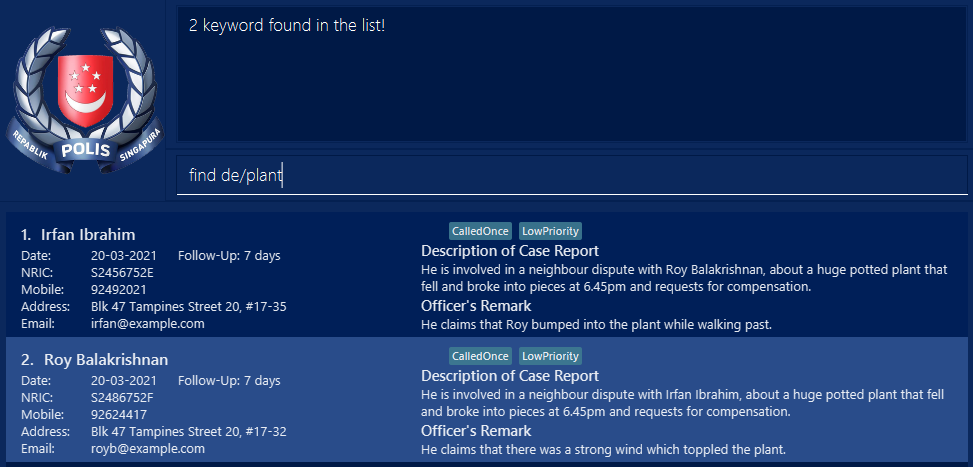
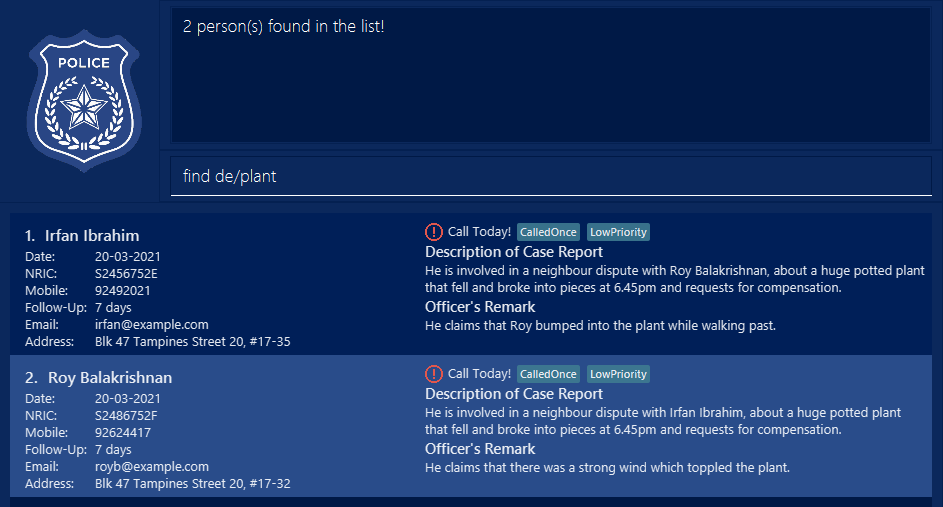
Updated UG, DG & PPP
Also updated Ui images, corrected typo errors in UG & DG, shortened AddTag and RemoveTag message to 1 line.

diff --git a/src/main/java/seedu/address/model/util/SampleDataUtil.java b/src/main/java/seedu/address/model/util/SampleDataUtil.java
@@ -28,7 +28,7 @@ public class SampleDataUtil {
     public static Person[] getSamplePersons() {
         return new Person[] {
             new Person(new Name("Alex Yeoh"),
-                new Date("17-03-2021"),
+                new Date("02-04-2021"),
                 new FollowUp("7"),
                 new Nric("S1234567A"),
                 new Phone("87438807"),
@@ -61,7 +61,7 @@ public class SampleDataUtil {
                 EMPTY_REMARK,
                 getTagSet("LowPriority", "NeverCalled")),
             new Person(new Name("Irfan Ibrahim"),
-                new Date("20-03-2021"),
+                new Date("19-03-2021"),
                 new FollowUp("7"),
                 new Nric("S2456752E"),
                 new Phone("92492021"),
@@ -72,7 +72,7 @@ public class SampleDataUtil {
                 new Remark("He claims that Roy bumped into the plant while walking past."),
                 getTagSet("LowPriority", "CalledOnce")),
             new Person(new Name("Roy Balakrishnan"),
-                new Date("20-03-2021"),
+                new Date("19-03-2021"),
                 new FollowUp("7"),
                 new Nric("S2486752F"),
                 new Phone("92624417"),

diff --git a/src/main/java/seedu/address/logic/commands/RemoveTagCommand.java b/src/main/java/seedu/address/logic/commands/RemoveTagCommand.java
@@ -22,8 +22,7 @@ public class RemoveTagCommand extends Command {
     public static final String COMMAND_WORD = "removeTag";
     public static final String MESSAGE_USAGE = COMMAND_WORD + ": Remove the tag of the person identified "
             + "by the index number used in the last person listing.\n"
-            + "Tag name should not contain spaces in between.\n"
-            + "Tag name cannot be empty.\n"
+            + "Tag name cannot be empty and should not contain space in between.\n"
             + "Parameters: INDEX (must be a positive integer) "
             + PREFIX_REMOVETAG + "[TAG]\n"
             + "Example: " + COMMAND_WORD + " 1 "
@@ -57,8 +56,7 @@ public class RemoveTagCommand extends Command {
 
         if (personToEdit.getTags().isEmpty()) {
             throw new CommandException("The tag is empty, please add tag(s) if needed.");
-        }
-        else if (!personToEdit.getTags().contains(tag)) {
+        } else if (!personToEdit.getTags().contains(tag)) {
             throw new CommandException("No tag name is matched, please enter a correct tag name.");
         } else {
             Set<Tag> oldTags = personToEdit.getTags();

diff --git a/src/main/java/seedu/address/ui/MainWindow.java b/src/main/java/seedu/address/ui/MainWindow.java
@@ -51,7 +51,7 @@ public class MainWindow extends UiPart<Stage> {
     private StackPane resultDisplayPlaceholder;
 
     @FXML
-    private StackPane statusbarPlaceholder;
+    private StackPane statusBarPlaceholder;
 
     @FXML
     private ImageView displayLogo;
@@ -122,7 +122,7 @@ public class MainWindow extends UiPart<Stage> {
         resultDisplayPlaceholder.getChildren().add(resultDisplay.getRoot());
 
         StatusBarFooter statusBarFooter = new StatusBarFooter(logic.getAddressBookFilePath());
-        statusbarPlaceholder.getChildren().add(statusBarFooter.getRoot());
+        statusBarPlaceholder.getChildren().add(statusBarFooter.getRoot());
 
         CommandBox commandBox = new CommandBox(this::executeCommand);
         commandBoxPlaceholder.getChildren().add(commandBox.getRoot());

diff --git a/src/main/java/seedu/address/logic/commands/AddTagCommand.java b/src/main/java/seedu/address/logic/commands/AddTagCommand.java
@@ -22,8 +22,7 @@ public class AddTagCommand extends Command {
     public static final String COMMAND_WORD = "addTag";
     public static final String MESSAGE_USAGE = COMMAND_WORD + ": Add the tag of the person identified, "
             + "by the index number used in the last person listing.\n"
-            + "Tag name should not contain spaces in between.\n"
-            + "Tag name cannot be empty.\n"
+            + "Tag name cannot be empty and should not contain space in between.\n"
             + "Parameters: INDEX (must be a positive integer) "
             + PREFIX_ADDTAG + "[TAG]\n"
             + "Example: " + COMMAND_WORD + " 1 "

diff --git a/docs/team/impala36.md b/docs/team/impala36.md
@@ -1,0 +1,68 @@
+---
+layout: page
+title: Zhenquan's Project Portfolio Page
+---
+
+## Project: Police Address Book
+
+Police Address Book (PAB) is a desktop app meant for Police Investigation Officers, optimized for use via a Command Line Interface (CLI) with a Graphical User Interface (GUI).
+
+It is designed to help them manage their investigation cases better by reminding them on which people to call, automatically rescheduling follow-up calls and assisting in sending case detail emails to colleagues or call notification emails to people in the contact list.
+
+Given below are my contributions to the project.
+
+* **New Feature**: Added the Officer's Remark field [\#6]()
+  * What it does: Allows additional remarks from the officer about his opinion about the case.
+  * Justification: Supposedly after a follow-up call with the person, the officer develops his own opinion on how to handle the case afterwards.
+  * Highlights: When no remarks are found for a case, the Officer's Remark title will not show as well.
+  
+* **New Feature**: Added the Description field [\#6]()
+  * What it does: Allows in-depth description of a case.
+  * Justification: By showing a clear description of the case, the officer has no doubts about what, where and when it happened, and who were involved.
+  
+* **New Feature**: Call Today message and notification icon [\#87]()
+  * What it does: Shows a red exclamation icon with a "Call Today!" message beside it.
+  * Justification: When the report date + follow-up days = today's date, it is time for the officer to make the scheduled follow-up call with the person in the case.
+
+* **Code contributed**: [RepoSense link]()
+
+* **Enhancements to existing features**:
+  * Improved Remark to be included in the Add and Edit commands. [\#66]()
+  * Made tags more useful by indicating case priority and number of times called. [\#66]()
+  * Improved GUI display for better readability with Description of Case Report and Officer's Remark. [\#70]()
+  * Improved the FollowUp command to be included in the Add and Edit commands. [\#99]()
+  * Added logging for Call Today and remarkTitle to be displayed when a remark exists. [\#99]()
+  * Fixed Find command not being able to search descriptions, dates, remarks, followUp and tags. [\#100]()
+
+* **Documentation**:
+  * User Guide:
+    * Renamed AddressBook to Police Address Book, updated Add, Edit, Find, Remark format and command examples. [\#48]()
+    * Updated the summary description for Police Address Book, updated Add command examples. [\#66]()
+    * Added the FollowUp field in the command examples. [\#99]()
+    * Added many Find command examples. [\#100]()
+    * Added examples for AddTag and RemoveTag. [3d8fb80](https://github.com/AY2021S2-TIC4002-F18-1/tp2/commit/3d8fb80ebd42a340d1f73551891c670ae85b2ece#diff-b50feaf9240709b6b02fb9584696b012c2a69feeba89e409952cc2f401f373fb)
+    * Added more Remark examples. [2379c5e](https://github.com/AY2021S2-TIC4002-F18-1/tp2/commit/2379c5e4e8bb6f71a31481c96b3da5e34e76d71b#diff-b50feaf9240709b6b02fb9584696b012c2a69feeba89e409952cc2f401f373fb)
+    * Updated the phone number requirement. [\#138]()
+    
+  * Developer Guide:
+    * Updated the target user profile, value proposition, user stories, use cases and additional information. [\#48]()
+    * Replaced all addressbook-level3 to team's repo. [\#66]()
+    * Added CallUpActivityDiagram. [\#84]()
+    * Updated CallUpActivityDiagram to CallTodayActivityDiagram. [\#99]()
+    * Updated phone number to be limited to 3-15 numbers. [\#138]()
+
+* **Team-based tasks**:
+  * Assisted Yi Heng through the whole process of adding the Date field into the project. [\#50]()
+  * Fixed JsonSerializableAddressBookTest.java and logic of isSamePerson for Lin Qing. [\#68]()
+  * Made minor fixes and corrected mistakes in AddTag and RemoveTag for Yi Heng. [\#102]()
+  * Several commands were not catching exceptions during testing. [\#106]()
+  * Fixed outstanding PE-D issues. [\#136]() and [\#138]()
+  
+* **Community**:
+  * PRs reviewed: [\#1](), [\#12](), [\#29](), [\#30](), [\#31](), [\#33](), [\#34](), [\#37](), [\#38](), [\#42](), [\#43](), [\#45](), [\#46](), [\#47](), [\#50](), [\#56](), [\#64](), [\#65](), [\#75](), [\#83](), [\#85](), [\#91](), [\#93](), [\#95](), [\#97](), [\#98](), [\#101](), [\#134](), [\#135](), [\#137](), [\#140](), [\#141]()
+  * Reviewed the code in team members' PRs and requested for changes when necessary. Example: [\#33]()
+  * Requested for help on the forum. [#11](https://github.com/nus-tic4002-AY2021S2/forum/issues/11)
+
+* **Tools**:
+  * Integrated SceneBuilder to the project for editing the GUI.
+  

diff --git a/docs/UserGuide.md b/docs/UserGuide.md
@@ -5,7 +5,7 @@ title: User Guide
 
 **Police Address Book (PAB)** is a desktop app meant for Police Investigation Officers, optimized for use via a Command Line Interface (CLI) with a Graphical User Interface (GUI).
 
-It is designed to help them manage their investigation cases better by reminding them on which people to call, automatically rescheduling follow up calls and assisting in sending case detail emails to colleagues or call notification emails to people in the contact list.
+It is designed to help them manage their investigation cases better by reminding them on which people to call, automatically rescheduling follow-up calls and assisting in sending case detail emails to colleagues or call notification emails to people in the contact list.
 
 * Table of Contents
   {:toc}
@@ -16,11 +16,11 @@ It is designed to help them manage their investigation cases better by reminding
 
 1. Ensure you have Java `11` or above installed in your Computer.
 
-1. Download the latest `PoliceAddressBook.jar`.
+1. Download the latest `[TIC4002-F18-1][PoliceAddressBook].jar`.
 
 1. Copy the file to the folder you want to use as the _home folder_ for your Police Address Book.
 
-1. Double-click the file to start the app. The GUI similar to the below should appear in a few seconds. Note how the app contains some sample data.<br>
+1. Double-click the file to start the app. The GUI similar to the below should appear in a few seconds. Notice that the app contains some sample data.<br>
    ![Ui](images/Ui.png)
 
 1. Type the command in the command box and press Enter to execute it. e.g. typing **`help`** and pressing Enter will open the help window.<br>
@@ -48,7 +48,7 @@ It is designed to help them manage their investigation cases better by reminding
   e.g. in `add n/NAME`, `NAME` is a parameter which can be used as `add n/John Doe`.
 
 * Items in square brackets are optional.<br>
-  e.g `n/NAME [t/TAG]` can be used as `n/John Doe t/friend` or as `n/John Doe`.
+  e.g. `n/NAME [t/TAG]` can be used as `n/John Doe t/friend` or as `n/John Doe`.
 
 * Items with `…` after them can be used multiple times including zero times.<br>
   e.g. `[t/TAG]…` can be used as ` ` (i.e. 0 times), `t/friend`, `t/friend t/family` etc.
@@ -125,7 +125,7 @@ Format `followUp INDEX f/FOLLOWUP`
 
 * A red exclamation icon will appear with a "Call Today!" message when the last day of the follow-up date is the same as today.
 * You can stop the follow-up by setting it to 0.
-* The follow up days must be between 0 to 365;
+* The follow-up days must be between 0 and 365;
 
 Examples:
 
@@ -147,7 +147,7 @@ Format: `edit INDEX [n/NAME] [d/DATE] [i/NRIC] [p/PHONE] [e/EMAIL] [a/ADDRESS] [
 * Edits the person at the specified `INDEX`. The index refers to the index number shown in the displayed person list. The index **must be a positive integer** 1, 2, 3, …
 * At least one of the optional fields must be provided.
 * Existing values will be updated to the input values.
-* When editing tags, the existing tags of the person will be removed i.e adding of tags is not cumulative.
+* When editing tags, the existing tags of the person will be removed i.e. adding of tags is not cumulative.
 * You can remove all the person’s tags by typing `t/` without specifying any tags after it.
 * You can remove the remark by typing `r/` without specifying any remark after it.
 
@@ -197,11 +197,11 @@ Format:
 `find [n/MORE_KEYWORDS] [d/DATE] [i/NRIC] [p/PHONE] [e/EMAIL] [a/ADDRESS] [de/DESCRIPTION] [r/REMARK] [t/TAG]…`
 
 
-* The search is case-insensitive. e.g `n/hans` will match `Hans`
+* The search is case-insensitive. e.g. `n/hans` will match `Hans`
 * The order of the keywords does not matter. e.g. `n\Hans` will match `Bo Hans`
 * The search applies on all the fields.
 * The default find command is finding the name field: e.g. `find john`
-* Only find one filed at a time. Mutilple find input does not support. `find n\john`
+* Only find one filed at a time. Multiple find input is not supported. `find n\john`
 
 Examples:
 * `find n/alex bernice` returns `Alex Yeoh`, `Bernice Yu`<br>
@@ -247,7 +247,7 @@ Format:
 * The email format will be validated.
 * The index must be numeric and within the list size.
 * Any email address with empty space after e\ will treat as invalid email.
-* Any empty space between email format will treated as MESSAGE.
+* Any empty space between email format will be regarded as a MESSAGE.
 
 
 Examples:

diff --git a/docs/DeveloperGuide.md b/docs/DeveloperGuide.md
@@ -35,15 +35,15 @@ The ***Architecture Diagram*** given above explains the high-level design of the
 
 The rest of the App consists of four components.
 
-* [**`UI`**](#ui-component): The UI of the App.
-* [**`Logic`**](#logic-component): The command executor.
-* [**`Model`**](#model-component): Holds the data of the App in memory.
-* [**`Storage`**](#storage-component): Reads data from, and writes data to, the hard disk.
+* [**`UI`**](#ui-component) The UI of the App.
+* [**`Logic`**](#logic-component) The command executor.
+* [**`Model`**](#model-component) Holds the data of the App in memory.
+* [**`Storage`**](#storage-component) Reads data from, and writes data to, the hard disk.
 
 Each of the four components,
 
 * defines its *API* in an `interface` with the same name as the Component.
-* exposes its functionality using a concrete `{Component Name}Manager` class (which implements the corresponding API `interface` mentioned in the previous point.
+* exposes its functionality using a concrete `{Component Name}Manager` class which implements the corresponding API `interface` mentioned in the previous point.
 
 For example, the `Logic` component (see the class diagram given below) defines its API in the `Logic.java` interface and exposes its functionality using the `LogicManager.java` class which implements the `Logic` interface.
 
@@ -178,7 +178,7 @@ Next, the following object interactions will occur to save the new person inform
 It will return a `CommandResult` to the `LogicManager` that will return to user.
 
 
-### Follow up Calls feature
+### Follow-up Calls feature
 
 #### Implementation
 
@@ -196,7 +196,7 @@ The following activity diagram summarizes what happens when a user executes a ne
 
 This feature provides an alternative way for the uer to add/remove a specified tag.
 The Edit tag feature `edit t/[Tag]` will overwrite the entire set of tags. 
-In other words, if there are few tags, and user only wants to udpate a specified tag, the user will need to re-enter all the tags in the `edit t/[Tag]` command, which is tedious and time consuming.
+In other words, if there are few tags, and user only wants to update a specified tag, the user will need to re-enter all the tags in the `edit t/[Tag]` command, which is tedious and time-consuming.
 With the `Add/Remove Tag feature`, the user will be able to remove a specified tag and add in a new tag, or just simply add in a new tag directly.
 
 #### Implementation
@@ -263,7 +263,7 @@ _{more aspects and alternatives to be added}_
 * prefers typing to mouse interactions
 * is reasonably comfortable using CLI apps
 
-**Value proposition**: Helps to remind which people to call, helps to auto reschedule follow up calls, able to update a person's information and add own notes after a call
+**Value proposition**: Helps to remind which people to call, helps to auto reschedule follow-up calls, able to update a person's information and add own notes after a call.
 
 
 ### User stories
@@ -283,7 +283,7 @@ Priorities: High (must have) - `* * *`, Medium (nice to have) - `* *`, Low (unli
 | `* * *`  | police officer | find a person by field         | easily locate details of persons with any bit of information I can remember |
 | `* * *`  | police officer | have a date for each case         | know when the case occurred |
 | `* * *`  | police officer | have a description for each case      | see the details of the person and the case for follow up in future |
-| `* * *`  | police officer | set time intervals           | be reminded to give a follow up call |
+| `* * *`  | police officer | set follow-up           | be reminded to give a follow-up call |
 | `* *`  | police officer | have no repeated data           | avoid duplicate entries (check by phone number or NRIC) |
 | `* *`  | police officer | have an email field           | still contact the person in another way in case no one answers the phone |
 | `*`    | police officer | have a better GUI display of information           | easily see the details of each person and their case |
@@ -401,7 +401,6 @@ Priorities: High (must have) - `* * *`, Medium (nice to have) - `* *`, Low (unli
     * 3a1. Police Address Book shows an error message.
 
       Use case resumes at step 2.
-*{More to be added}*
 
 ### Non-Functional Requirements
 

diff --git a/docs/AboutUs.md b/docs/AboutUs.md
@@ -21,7 +21,7 @@ We are a team based in the [School of Computing, National University of Singapor
 <img src="images/impala36.png" width="200px">
 
 [[github](http://github.com/impala36/tp2)]
-[[portfolio](team/zhenquan.md)]
+[[portfolio](team/impala36.md)]
 
 * Role: Team member
 
